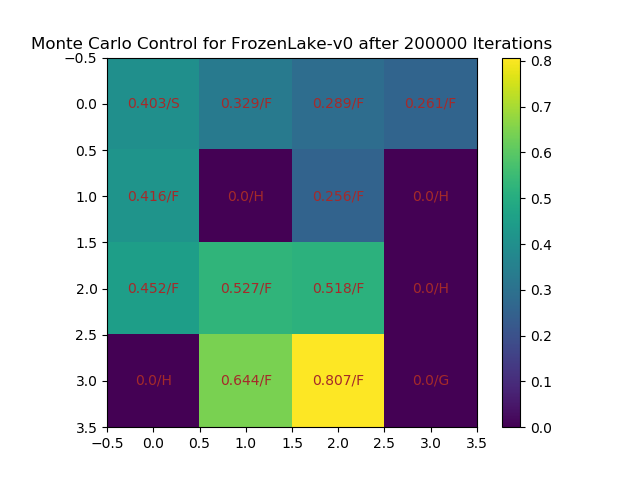
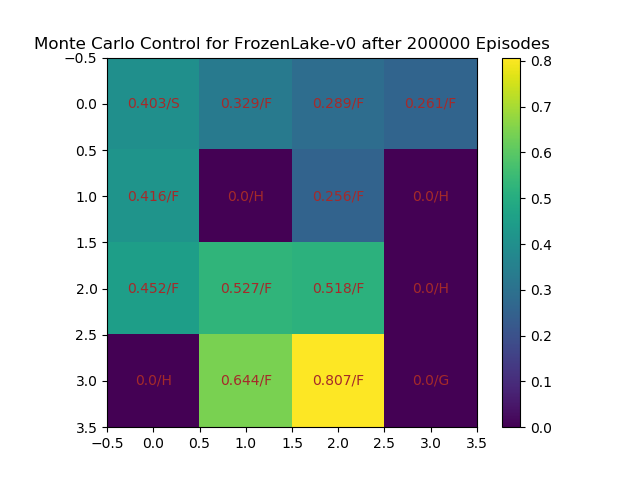
small typo

Changed region(s): [[0.0312, 0.0625, 0.875, 0.125]]

diff --git a/monte_carlo_policy_iteration/monte_carlo_policy_iteration.py b/monte_carlo_policy_iteration/monte_carlo_policy_iteration.py
@@ -60,7 +60,7 @@ def monte_carlo_policy_iteration():
     for i in range(4):
         for j in range(4):
             plt.text(j, i, str(vv[i][j])[:5]+'/'+state[i][j], ha="center", va="center", color="brown")
-    plt.title("Monte Carlo Control for FrozenLake-v0 after {} Iterations".format(num_episode))
+    plt.title("Monte Carlo Control for FrozenLake-v0 after {} Episodes".format(num_episode))
     plt.savefig('monte_carlo_policy_iteration.png')
     return Q, pi
 
